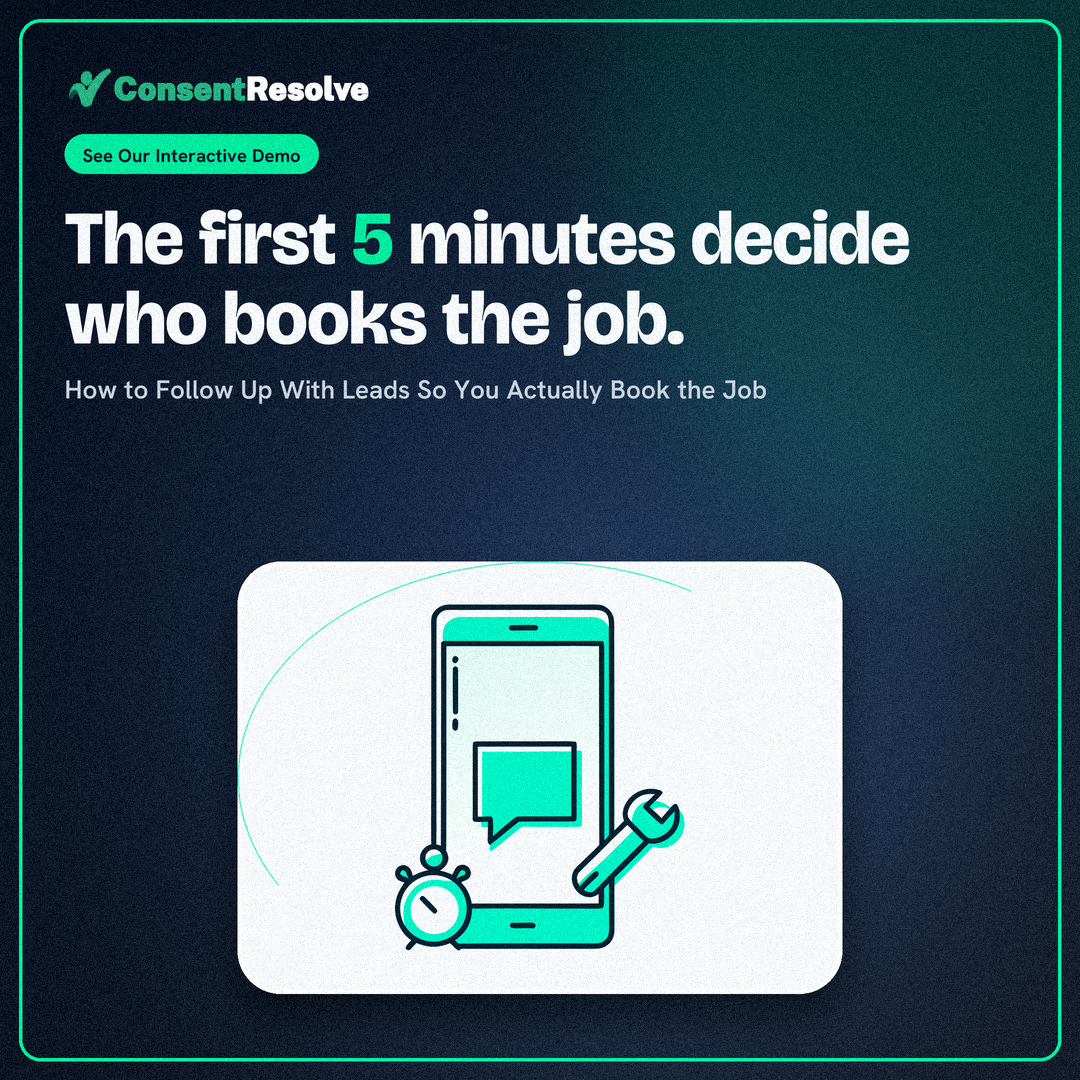
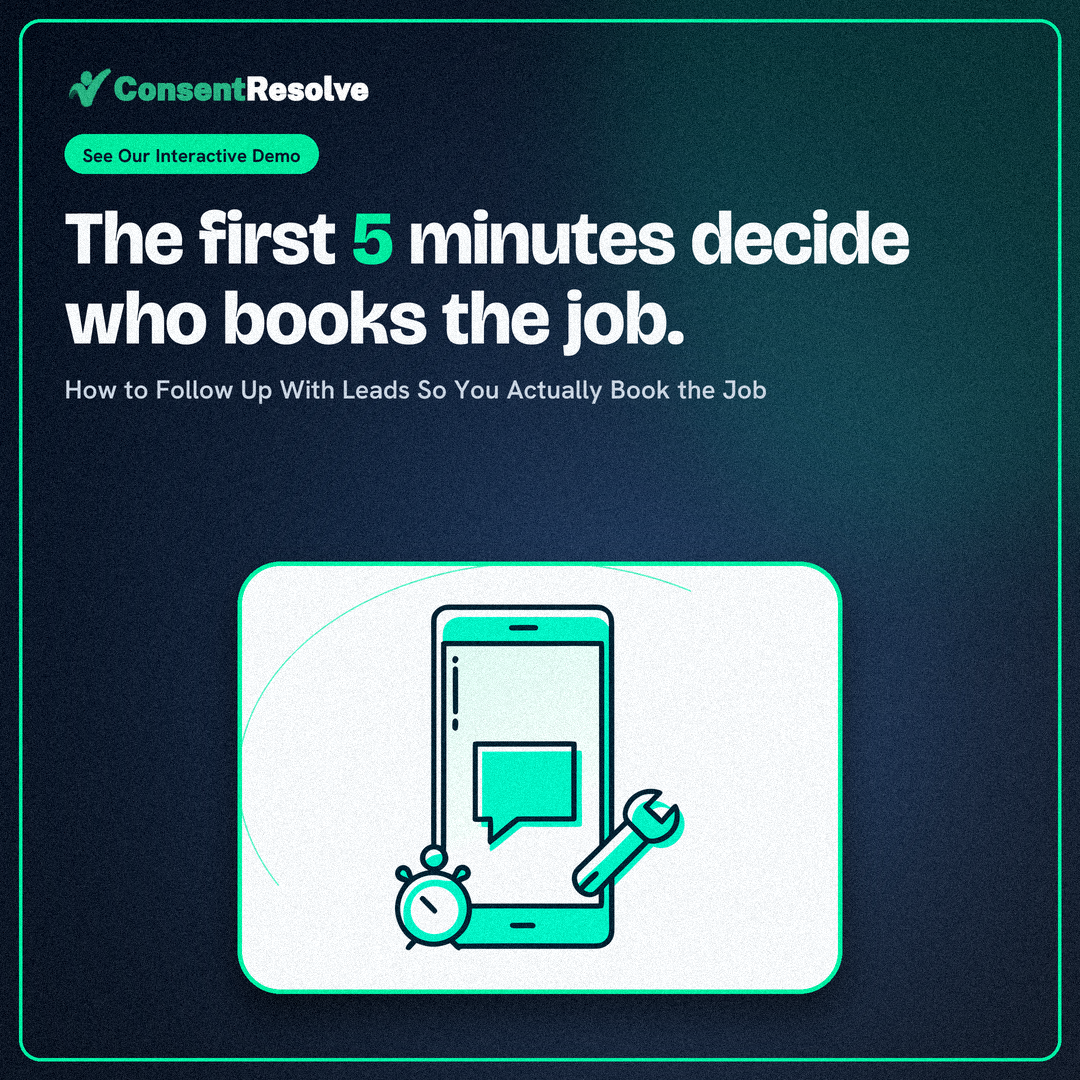
Image gen: illustration card border green (mint) instead of white; refresh plumber previews

Changed region(s): [[0.2139, 0.5194, 0.7944, 0.9167], [0.2444, 0.9167, 0.7333, 0.9472]]

diff --git a/scripts/generate-resource-images.py b/scripts/generate-resource-images.py
@@ -387,7 +387,7 @@ def place_art(card, art, box, mode):
     ImageDraw.Draw(panel).rounded_rectangle([0, 0, bw, bh], radius=rad, fill=(248, 250, 252, 255))
     card.alpha_composite(panel, (bx, by))
     ImageDraw.Draw(card).rounded_rectangle([bx, by, bx + bw, by + bh], radius=rad,
-                                           outline=(255, 255, 255, 255), width=max(3, int(min(bw, bh) / 90)))
+                                           outline=(0, 235, 165, 255), width=max(3, int(min(bw, bh) / 90)))
 
     # 3) faint mint rim-light on the edge facing the light (top + left)
     rim = Image.new("RGBA", (W, H), (0, 0, 0, 0))
